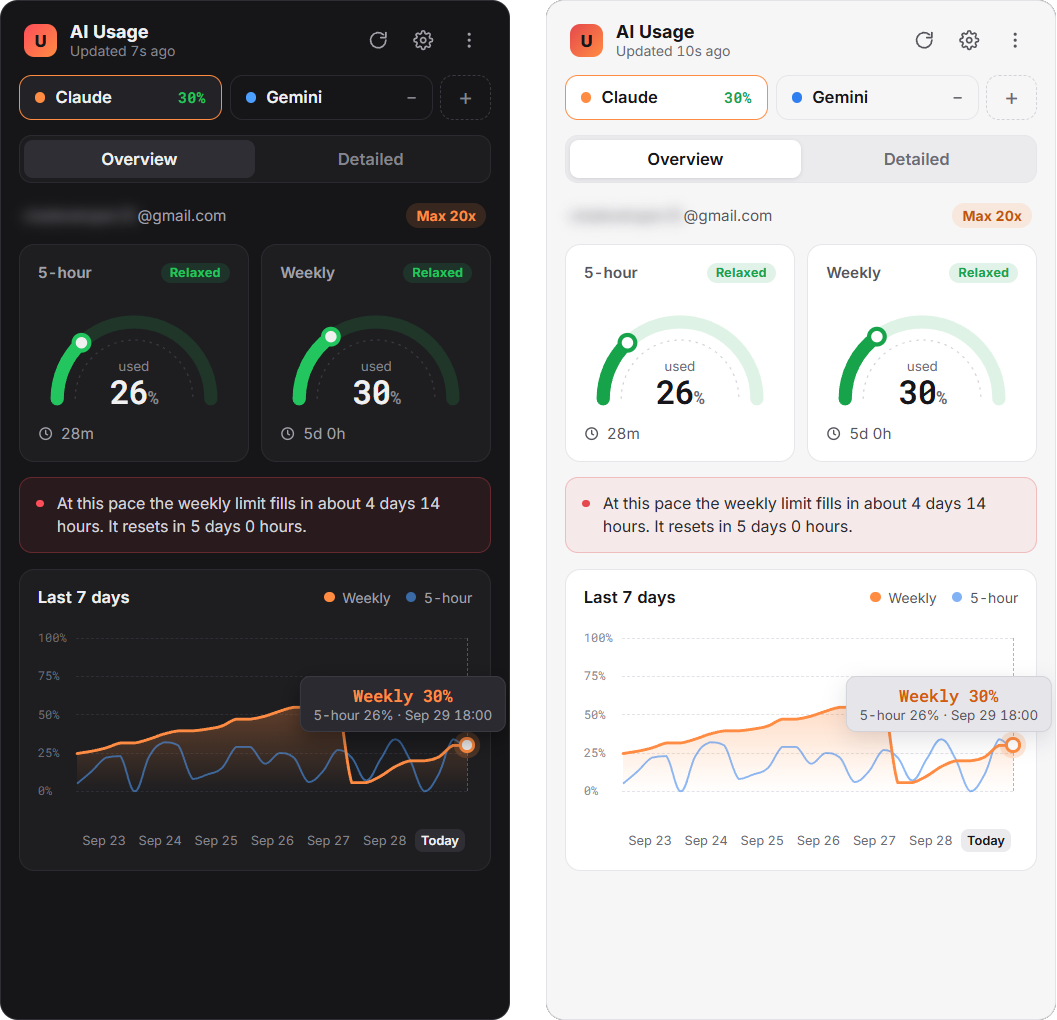
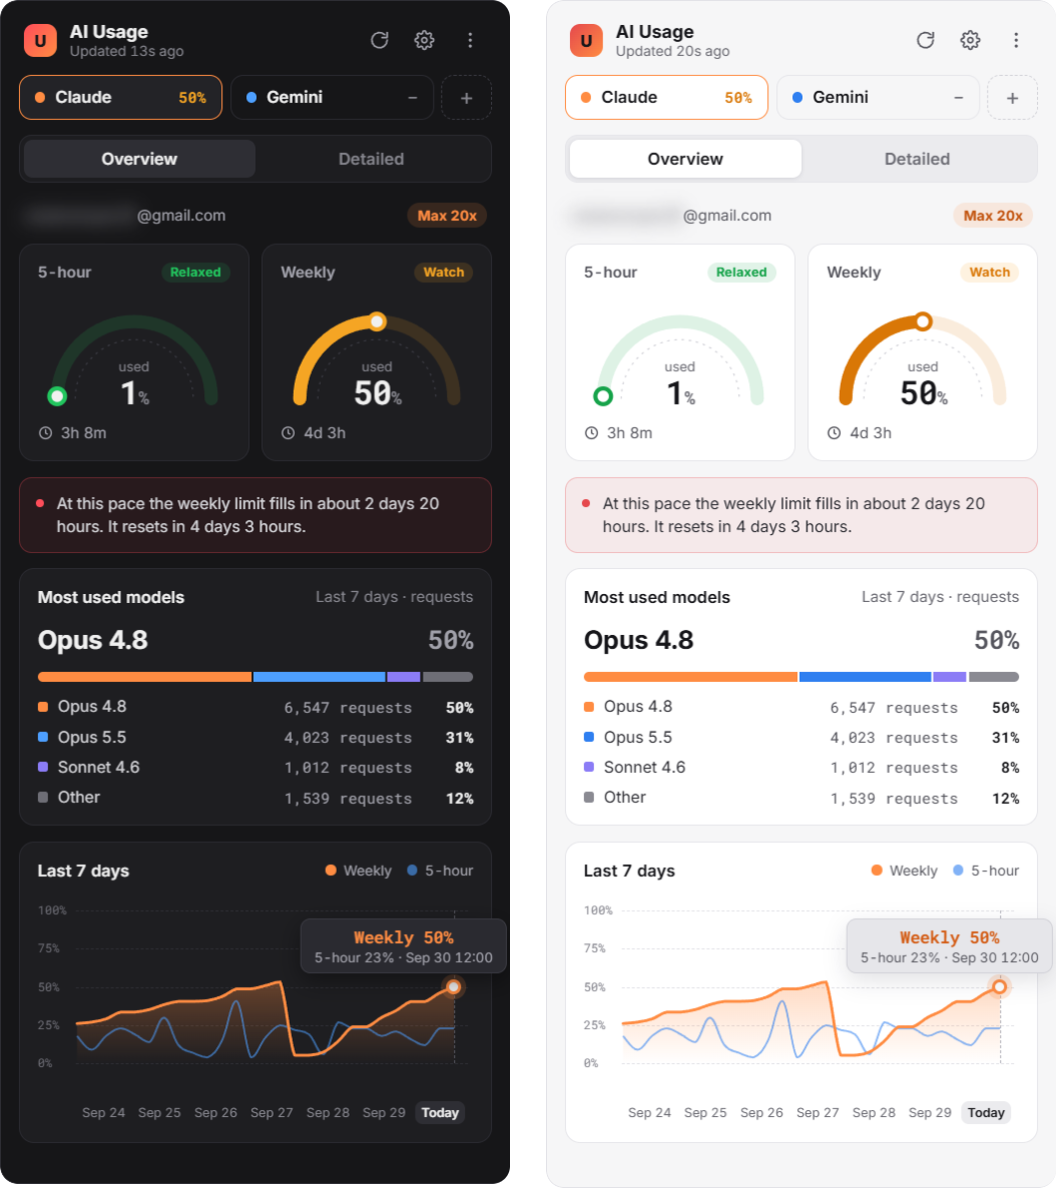
docs: update README screenshots for v1.3.1
- screenshot.png: Overview in dark and light themes, now with the
  "Most used models" card
- screenshot-detailed.png (new): the full Detailed view, including the
  activity insights, shown under the Detailed feature list

E-mail local part and all project names are blurred. Gauge values and
the Detailed view come from real data; the 7-day history chart uses
representative data, since the real history was lost to the pre-1.3.0
history-wipe bug.

diff --git a/README.md b/README.md
@@ -9,8 +9,10 @@ A lightweight Windows system tray application that tracks your AI usage across m
 ---
 
 <p align="center">
-  <img src="screenshot.png" alt="AI Usage window in dark and light themes" width="760">
+  <img src="screenshot.png" alt="Overview in dark and light themes: limit gauges, weekly projection, most used models and the 7-day chart" width="760">
 </p>
+
+<p align="center"><sub>Overview — dark and light themes</sub></p>
 
 ---
 
@@ -32,6 +34,12 @@ A lightweight Windows system tray application that tracks your AI usage across m
 - **Model mix** — Token share per model
 - **Top projects** — Ranked by estimated cost
 - **Time per project**, **models used in each project**, **longest sessions** and **most active days** — durations are active time (breaks over 30 minutes are not counted)
+
+<p align="center">
+  <img src="screenshot-detailed.png" alt="Detailed view: KPIs, daily token bars, token types, model mix, top projects, time per project, models by project, longest sessions and most active days" width="760">
+</p>
+
+<p align="center"><sub>Detailed view (last 30 days) — project names blurred</sub></p>
 
 ### Multi-Provider (Local Scan)
 - **Codex** — Scans OpenAI Codex CLI session logs from `~/.codex/`
